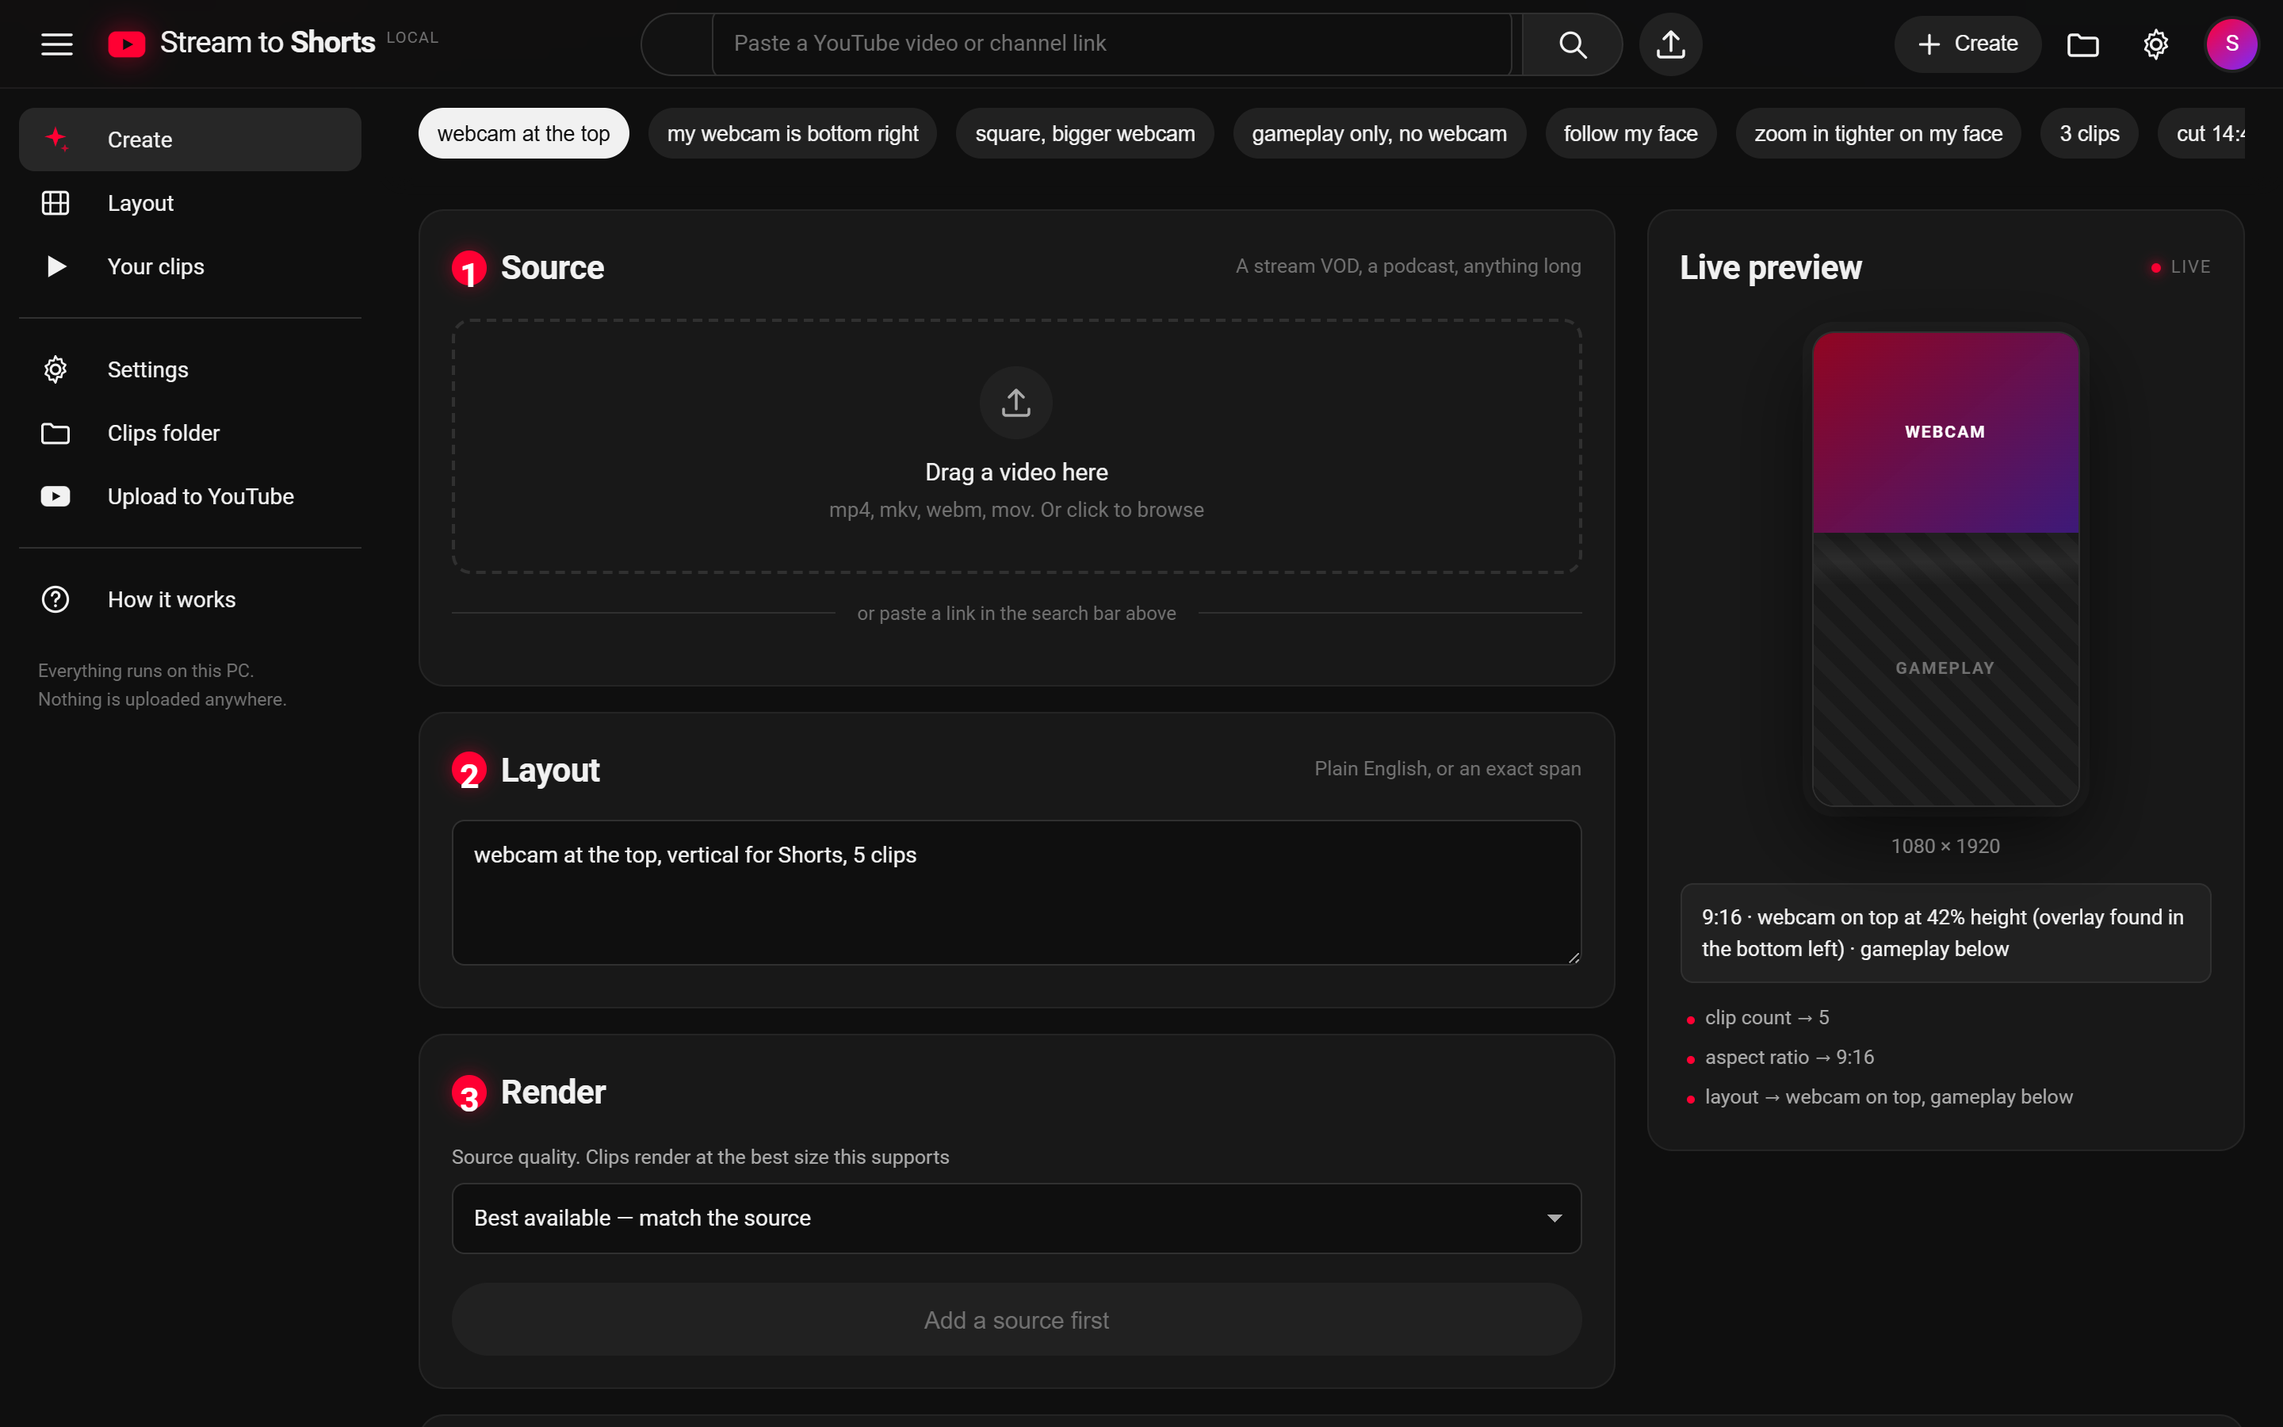
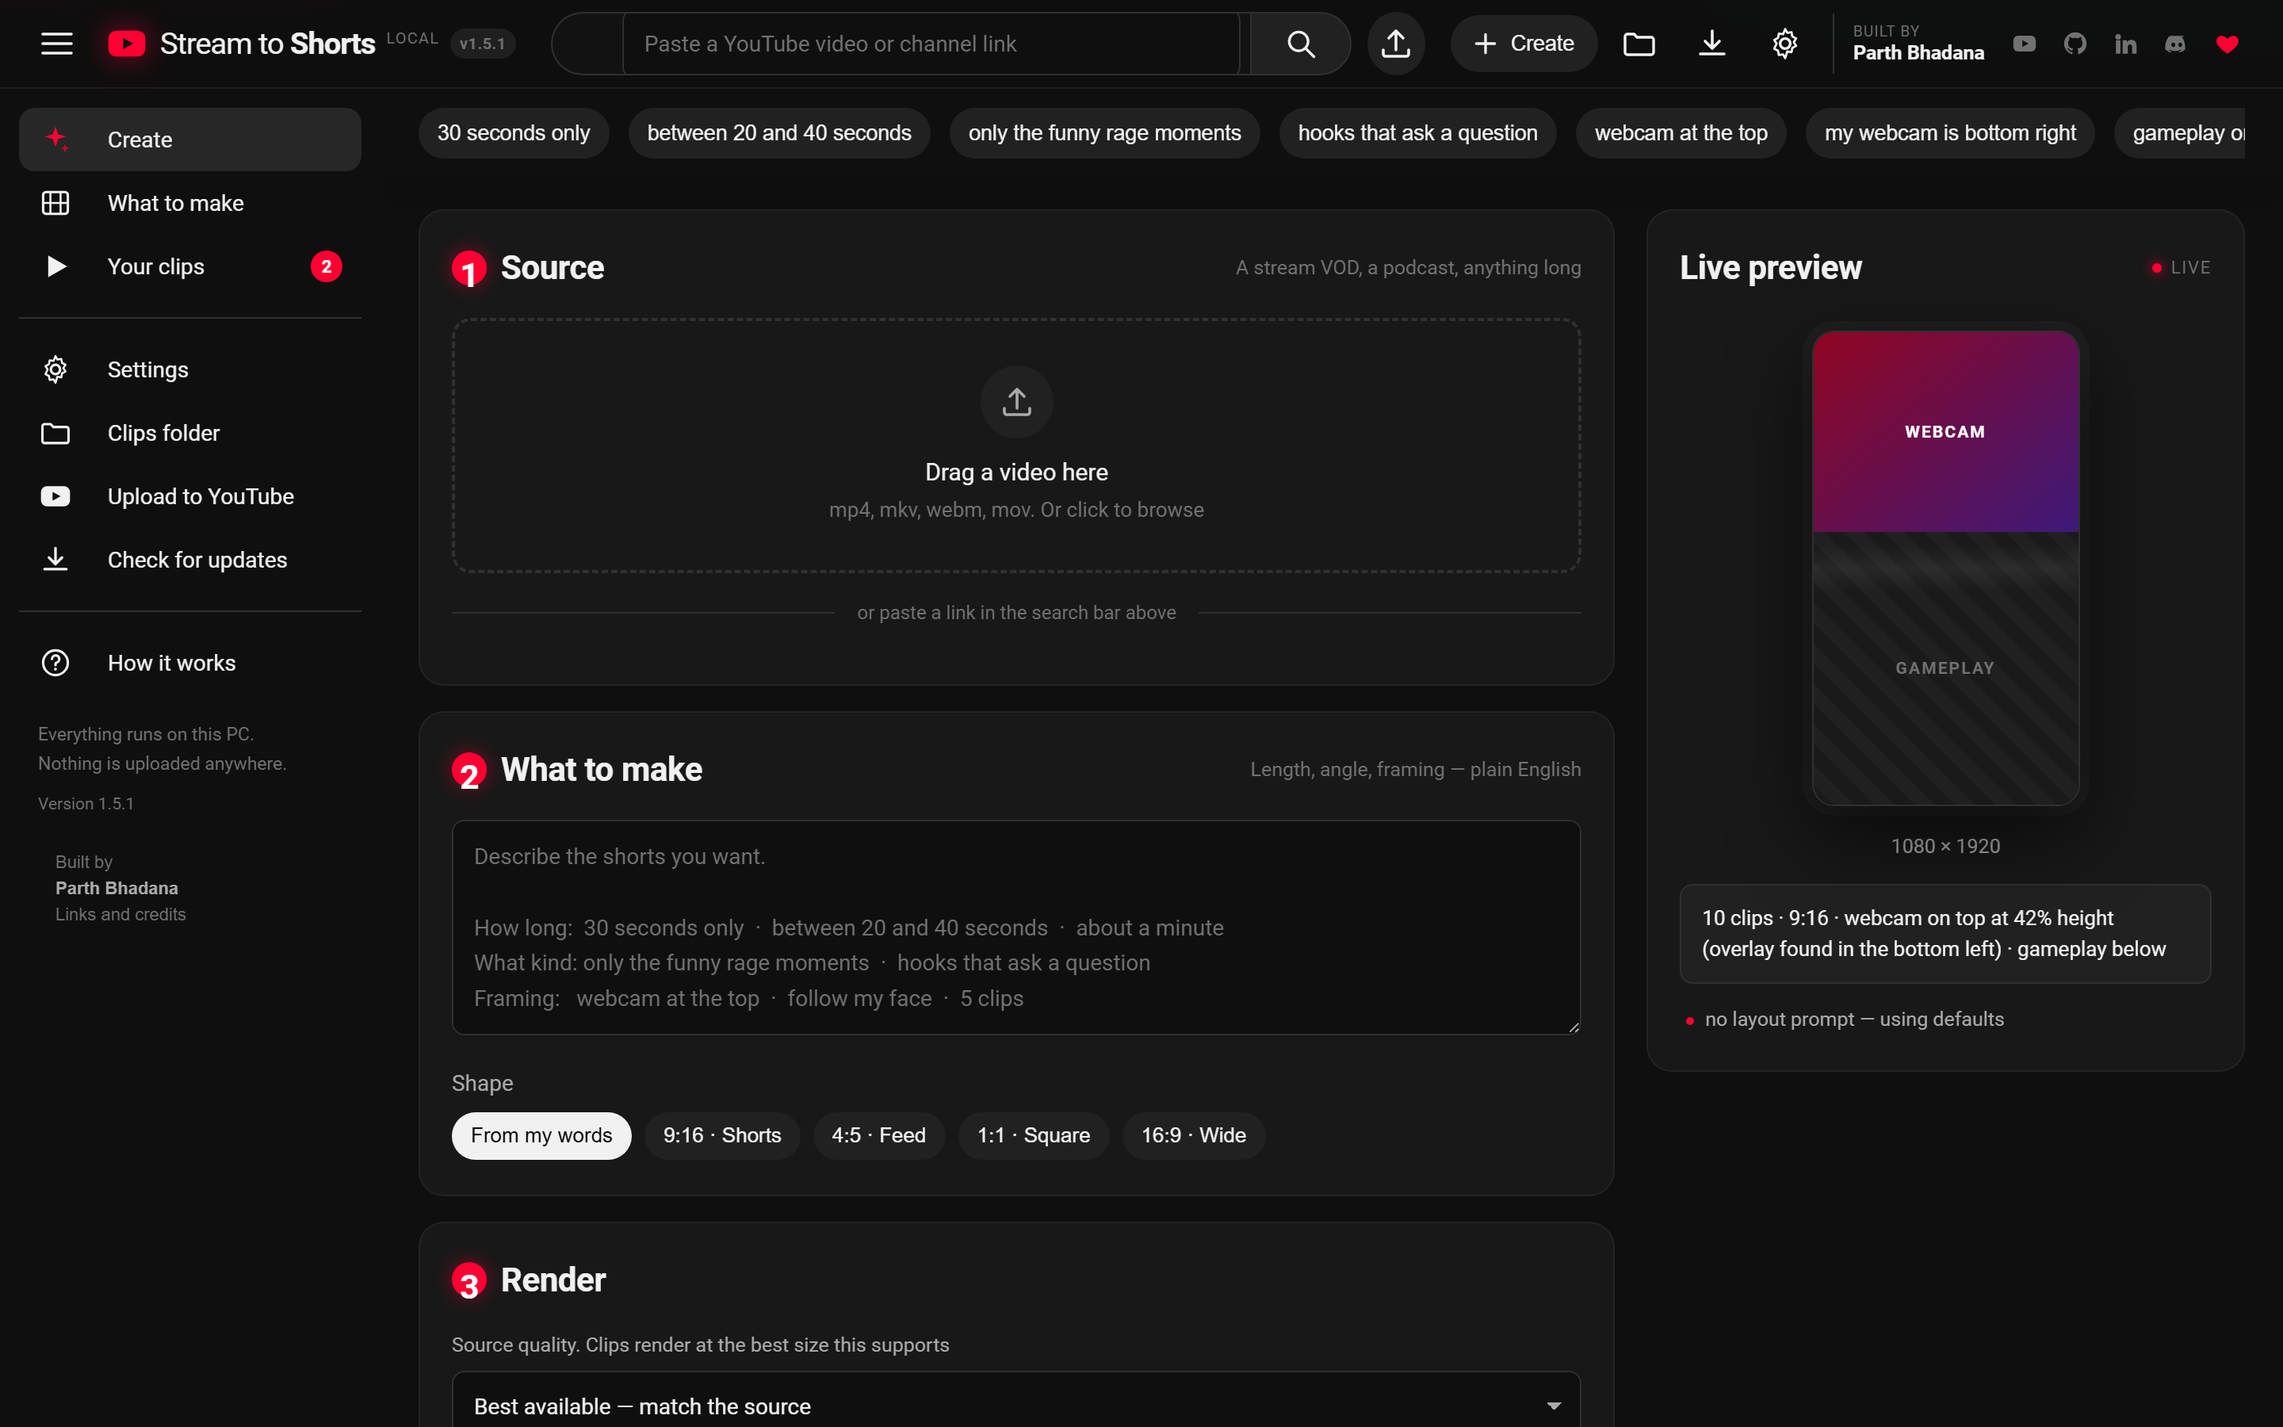
docs: cover the updater, and reshoot the interface
The screenshots were taken before any of today's work, so the masthead in
them has no version, no update button, and none of the new links -- the two
that show the shell are retaken at the same 2880x1800, and the launch card
gets a shot of its own since it is now the first thing anyone sees.

README gains a feature section on updating and says plainly in the download
section that this is the only manual download, because the question people
will actually ask is "do I have to do this again".

HOW_IT_WORKS covers the mechanism: why a running exe can be renamed but not
overwritten, why the ordering is what makes every failure leave a working
app, why cleanup has to retry rather than delete once, and what a checksum
from the same server that serves the file does and does not prove. The API
reference lists the five new routes.

CONCEPTS covers the ideas -- distribution as a trust problem, atomicity on a
filesystem that will not let you overwrite what is running, and why a version
number stored in three files needs enforcing rather than discipline.

02, 03 and 04 still show the older masthead. Retaking them needs a real
render in progress and a clip open in the player, which means a full run with
a source video, so they are left until there is one to catch.

diff --git a/HOW_IT_WORKS.md b/HOW_IT_WORKS.md
@@ -1517,6 +1517,112 @@ are separate artifacts — one build run refreshes only one of them.
 
 ---
 
+## 16b. Shipping updates to an installed .exe
+
+Packaging solves getting the app onto a machine once. It does nothing about the
+second time. The exe is a single unsigned file someone downloads and keeps, so
+without a way to reach it, every fix written after their download is a fix they
+never receive — and asking someone to re-fetch 229 MB by hand is a step most
+will not take twice.
+
+`webapp/updater.py` is the whole mechanism. Three problems, each with a
+constraint worth understanding.
+
+### Knowing there is something new
+
+The check reads GitHub's releases API for the repository compiled into the
+build, compares the newest tag against `APP_VERSION`, and reports one of four
+states: `current`, `update`, `ahead`, or `unavailable`.
+
+`ahead` exists because the first version of this collapsed "a newer release
+exists" and "this build is newer than the last release" into one branch, and
+produced a message telling someone on the newest build to install an older one.
+A development build is a normal thing to be running; it is not an update.
+
+Checks run at launch, every thirty minutes while the window is open, and on
+window focus, with a ten-minute floor so a window being focused repeatedly does
+not become a stream of requests. Unauthenticated GitHub allows sixty calls an
+hour; this uses two.
+
+Failure is silent by design. Offline, rate-limited, or no releases yet all
+return a quiet "nothing to report" rather than an error, because an app that
+cannot reach GitHub is still a working app.
+
+### Trusting what comes back
+
+The releases API publishes a SHA-256 for each asset. The download is hashed as
+it streams and compared before anything is replaced; a mismatch or a missing
+digest fails closed and deletes the partial file.
+
+This is integrity, not authorship — the exe is unsigned, so it proves the file
+matches what the API described, not who built it. Without a code-signing
+certificate that is the strongest available check.
+
+Two smaller boundaries matter as much. Every URL is checked against an
+allowlist of GitHub's own hosts, before the request and again after redirects,
+so a lookalike domain in an API response goes nowhere. And the page never
+handles a URL at all: it asks the server to install *the* update, and the
+server resolves what that means itself. Anything rendered in the window is
+therefore unable to aim the updater at a file of its choosing.
+
+### Replacing a file that is currently running
+
+Windows will not let a running `.exe` be overwritten. It will let it be
+**renamed**. So:
+
+```
+download  -> .update-xxxx.part   (beside the exe, not in %TEMP%:
+                                  a rename only works within one volume)
+verify    -> SHA-256 must match, or stop here
+rename    -> StreamToShorts.exe  -> StreamToShorts.exe.old-version
+move      -> .update-xxxx.part   -> StreamToShorts.exe
+relaunch  -> detached, from the same path
+exit      -> 1.5s later, so the reply reaches the browser first
+```
+
+Ordering is the safety property. Nothing is touched until the hash matches, and
+if the second move fails the original is put straight back — the failure mode
+is "you are still on the version you had", never "you have no app".
+
+Cleanup is the part that looks trivial and is not. The replaced build cannot
+simply be deleted by the new process: the old one is still shutting down and
+still holding its own file open, so the delete fails. The first version of this
+swallowed that error and left 229 MB on disk until the app happened to be
+started a second time. It now retries on a background thread until the handover
+completes, and sweeps abandoned `.part` files at the same time.
+
+The staged file is also deleted explicitly after the move rather than trusting
+the move to consume it. `os.replace` is documented to rename, and was observed
+on one volume to satisfy the request by copying and leaving the source — which
+stranded a full-size duplicate next to the exe it had just become.
+
+### What cannot self-update
+
+Only the one-file build. The one-folder build is hundreds of files, and
+swapping those under a running process is a different and far more fragile
+problem, so it reports the new version and links to the releases page instead.
+The two are told apart by where `sys._MEIPASS` points: a one-file build unpacks
+to a temp directory far from the exe, a one-folder build unpacks nowhere and
+`_MEIPASS` is the `_internal` folder beside it.
+
+And nothing can update a build that shipped before this code existed. Every
+release up to v1.4.0 has no updater in it and never will — those installs need
+one manual download to reach v1.5.0, after which they are self-maintaining.
+
+### Where the version lives
+
+`shorts_generator/version.py` holds `APP_VERSION`, and `build_exe.py` refuses
+to build when `version_info.txt` disagrees with it. The release workflow checks
+the git tag against it too, before building and again after.
+
+Three guards for one number is not excessive here. The updater compares the
+newest release tag against the version compiled into the running build, so a
+build that reports the wrong number offers every user an update to the version
+they already have, installs it, reports the wrong number again, and offers it
+once more.
+
+---
+
 ## 17. Rough edges and known limits
 
 Everything in this section is true of the code as it stands. An earlier draft of
@@ -1607,6 +1713,16 @@ is now `MAX_TRIM_SECONDS`.
 All routes bind `127.0.0.1`. There is no authentication — binding `0.0.0.0`
 exposes an unauthenticated service where every job spends the host's API quota
 and CPU, and `webapp/__main__.py` prints a warning when you do.
+
+### Version and updates
+
+| Route | Purpose |
+|---|---|
+| `GET /api/version` | The running build's version. Local only, never touches the network, so the number is there when GitHub is not |
+| `GET /api/update/check` | Asks GitHub for the newest release. Returns `current` / `update` / `ahead` / `unavailable`, and never the download URL |
+| `POST /api/update/install` | Starts the download. Takes no arguments — the server resolves which file to fetch for itself |
+| `GET /api/update/progress` | Bytes done, total, and state: `downloading` / `verifying` / `ready` / `failed` |
+| `POST /api/update/apply` | Swaps the verified build in and relaunches. The process exits ~1.5s after replying |
 
 ### Setup and settings
 

diff --git a/README.md b/README.md
@@ -29,6 +29,8 @@ transcription and ranking both run locally.
 
 <img src="assets/screenshots/01-create.png" alt="The create screen: a layout prompt on the left, a live 9:16 preview on the right" width="880">
 
+<img src="assets/screenshots/00-welcome.png" alt="The launch card: what the app is, who made it, links to the channel, repo, Discord and email, and a donate button" width="640">
+
 </div>
 
 ---
@@ -71,6 +73,28 @@ told which stage it's on, because a three-hour VOD is not a two-second wait.
 
 <img src="assets/screenshots/02-progress.png" alt="A job mid-run, transcribing at 42%, with the log open" width="880">
 
+### It updates itself
+
+The app is one .exe people download once, so a fix that ships is a fix that has
+to reach them. It asks GitHub for the newest release at launch, again every
+half hour while it is open, and whenever you come back to the window — so a
+build published at noon reaches someone who started work at nine, without
+restarting anything.
+
+When there is one, a banner offers it. The download is checked against the
+SHA-256 GitHub publishes for that file, the running exe is replaced in place,
+and the app reopens on the new version. Same folder, same filename, and the
+build it replaced is deleted rather than left sitting on your disk. Nothing is
+touched until the checksum matches, so a failed download leaves the working
+app exactly as it was.
+
+There is a **Check for updates** button in the top bar and in the sidebar, and
+the version you are running is shown in all three places, for when something
+has gone wrong and you need to say which build you are on.
+
+> Builds before v1.5.0 were compiled before any of this existed and cannot be
+> told about new versions. Those need one manual download — the last one.
+
 ### Clips come back ranked
 
 Each card carries its score and the exact span it was cut from.
@@ -93,6 +117,9 @@ rendered file.
 [**⬇ Download StreamToShorts.exe**](https://github.com/kleZ799/stream-to-shorts/releases/latest/download/StreamToShorts.exe) — 229 MB, Windows, self-contained.
 
 Double-click it. On first run it asks for a [free Gemini API key](https://aistudio.google.com/apikey), which is stored only on your machine.
+
+**This is the only time you download by hand.** From v1.5.0 the app updates
+itself: it notices new releases, checks them, and replaces itself in place.
 
 <details>
 <summary>First-run details</summary>
@@ -439,6 +466,21 @@ stdout, so the runner captures it line by line, maps prefixes like `[transcribe]
 or `[stack] 2/5` onto stages, and gives each stage a band of the bar. A render
 that reports `3/5` moves the bar to the right place inside the render band
 without the pipeline knowing a UI exists.
+
+**Updating replaces the running exe with itself.** Windows will not let a
+running .exe be overwritten, but it will let it be *renamed* — so the running
+file is moved aside, the verified download takes its name, and the app
+relaunches from the same path. The rename happens only after the SHA-256
+matches, so a bad download never becomes the thing that runs; if the second
+move fails the original is put straight back. The replaced build cannot be
+deleted immediately — the process that was running it is still shutting down
+and still holding it open — so cleanup retries in the background until the
+handover completes.
+
+The page never handles a download URL. It asks the server to install *the*
+update, and the server resolves what that means from the repository compiled
+into the build, so nothing rendered in the window can aim the updater at a file
+of its choosing.
 
 **Editing re-cuts from the source, not the render.** Trimming a clip re-runs the
 renderer over the original download with new timestamps, which is why the span

diff --git a/CONCEPTS.md b/CONCEPTS.md
@@ -625,6 +625,65 @@ scope** rather than thread scope.
 
 ---
 
+## 12b. CS: software distribution and self-update
+
+**The concept.** Getting software onto a machine and keeping it current are
+different problems. Packaging solves the first. The second is only interesting
+when there is no package manager underneath you — and a single unsigned .exe
+someone downloaded from a GitHub release has nothing underneath it at all.
+
+**Where it shows up here.** `webapp/updater.py`.
+
+**Distribution as a trust problem.** Fetching and executing a binary is the
+riskiest thing this app does. Three separate controls, because none is
+sufficient alone:
+
+- *Transport* — HTTPS to hosts on a fixed allowlist, checked before the request
+  and again after redirects.
+- *Integrity* — SHA-256 from the releases API, compared before anything is
+  replaced. This proves the bytes match what the API described. It does not
+  prove who built them; that needs code signing, which needs a certificate.
+- *Authority* — the repository is compiled into the build. The page can ask to
+  install "the update" but cannot say what the update is. Anything rendered in
+  a webview is untrusted input, and the way to keep it from choosing a download
+  target is to never let it name one.
+
+The interview question hiding here is *what does a checksum actually prove?*
+If the server that publishes the file and the server that publishes the hash
+are the same server, a compromise of that server defeats both. It defends
+against corruption and interception, not against the publisher.
+
+**Atomicity under a hostile filesystem.** Windows will not overwrite a running
+executable but will rename one. That single fact shapes the design: rename the
+running file aside, move the verified download into its name, relaunch. The
+ordering gives you the property you want — every failure leaves a working app,
+because nothing is disturbed until the hash matches, and a failed second move
+puts the original back.
+
+**Resource cleanup is where this gets subtle.** The replaced build cannot be
+deleted by the process that replaced it: the old process is still exiting and
+still holds the file. A naive delete fails, and if you swallow the error you
+have silently left a few hundred megabytes on a user's disk. The fix is to
+retry until the handover completes rather than to try once at the wrong moment.
+
+A related trap: `os.replace` is a rename, except when the OS decides to satisfy
+it by copying, at which point the source survives and you have two copies of a
+229 MB file. Not trusting an operation to have the side effect you wanted, and
+checking, costs one syscall.
+
+**Version identity.** The updater compares a tag against a version compiled
+into the binary, which makes those two numbers a single logical value stored in
+three files. Left unenforced, they drift, and the failure is not cosmetic: a
+build that misreports its version offers every user an update to the version
+they are already running, forever. So the build refuses to run when they
+disagree, and CI checks the tag before building and the binary after.
+
+**The bootstrap problem.** No update mechanism can reach the versions that
+shipped before it existed. Those installs are unreachable by construction and
+need one manual download. Worth stating plainly rather than discovering.
+
+---
+
 ## 13. CS: internationalisation
 
 **File:** `webapp/static/i18n.js`
